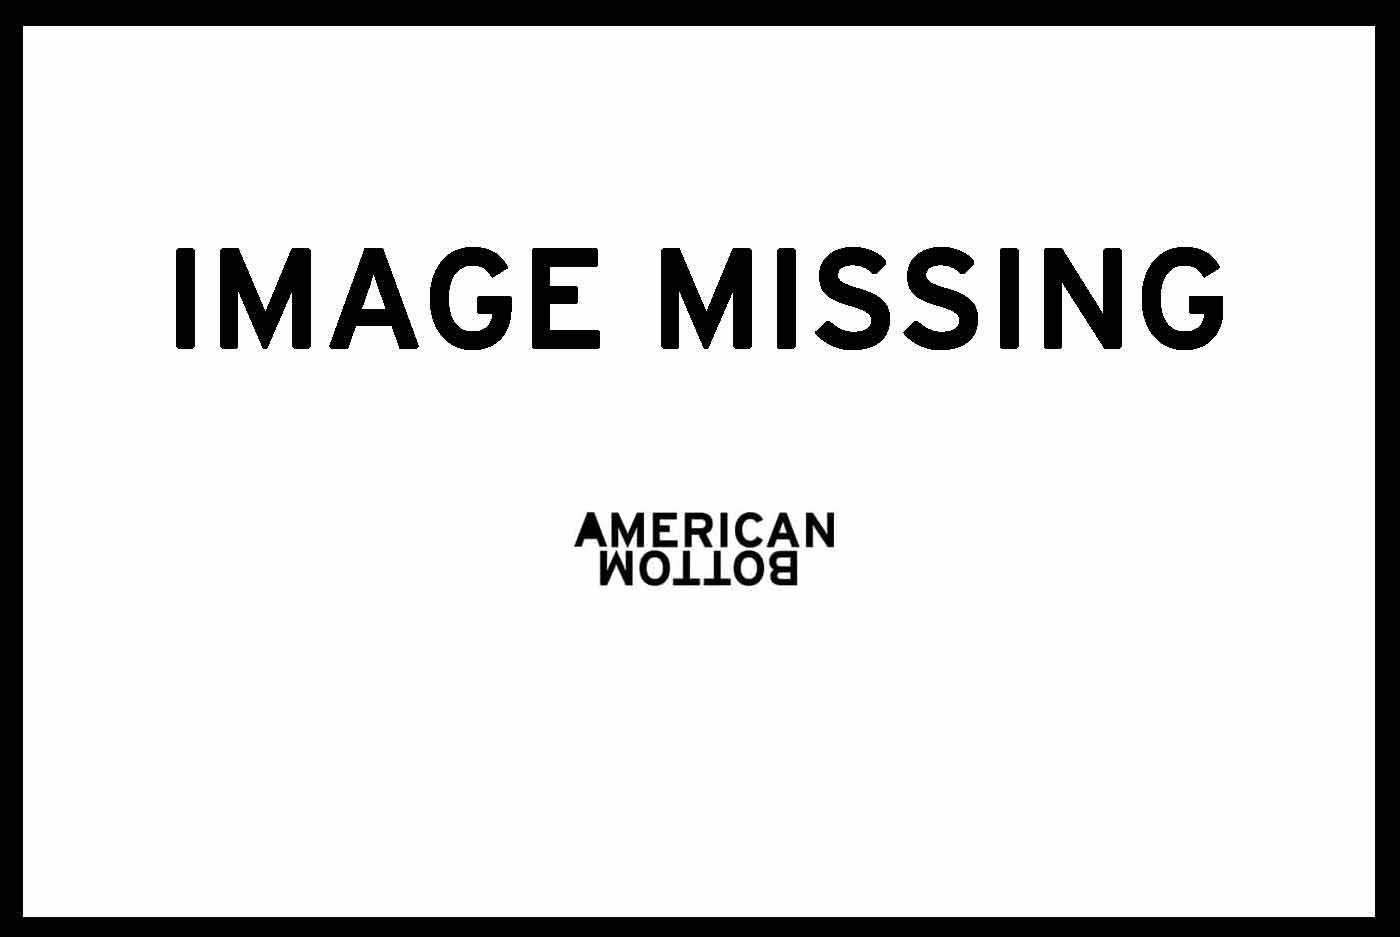
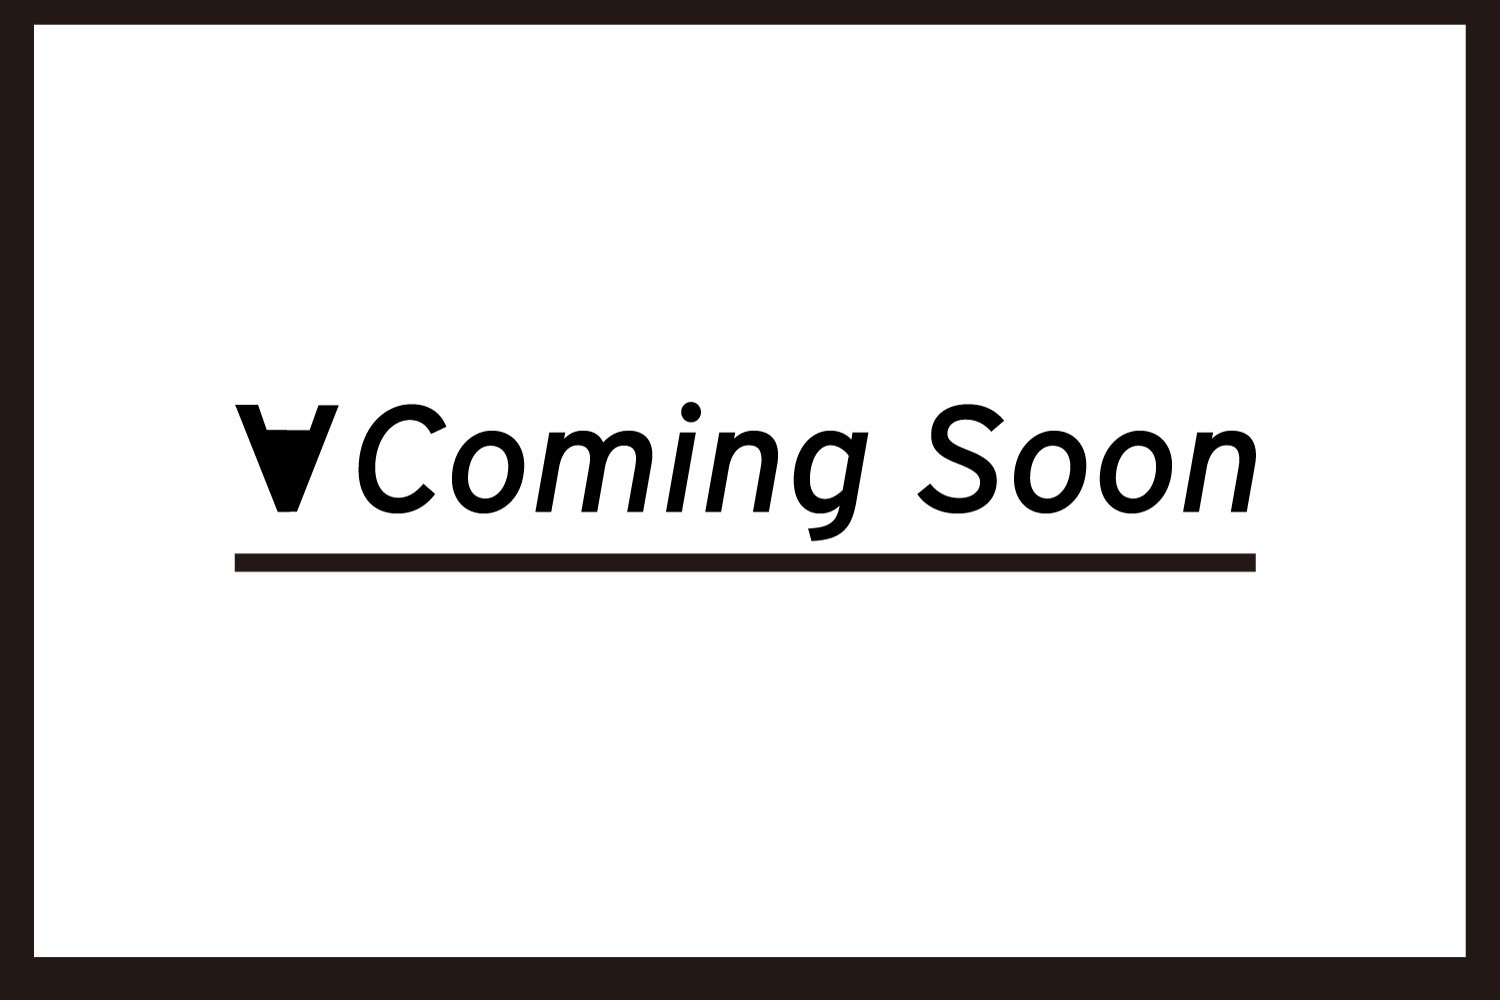
added coming soon page

diff --git a/archive.html b/archive.html
@@ -68,16 +68,16 @@
 			</div>
 
 			<div class='sitesGrid' id='site_alton'>
-				<a href='alton.html'><img src='images/sites/0imageIsFoundHere.jpg'></a>
+				<a href='0pageIsFoundHere.html'><img src='images/sites/0imageIsFoundHere.jpg'></a>
 				<div class='archiveSitetitle' id='title_alton'>
-					<a href='alton.html'><h4>Alton</h4></a>
+					<a href='0pageIsFoundHere.html'><h4>Alton</h4></a>
 				</div>
 			</div>
 
 			<div class='sitesGrid' id='site_baseline'>
-				<a href='baseline.html'><img src='images/sites/0imageIsFoundHere.jpg'></a>
+				<a href='0pageIsFoundHere.html'><img src='images/sites/0imageIsFoundHere.jpg'></a>
 				<div class='archiveSitetitle' id='title_baseline'>
-					<a href='baseline.html'><h4>Baseline</h4></a>
+					<a href='0pageIsFoundHere.html'><h4>Baseline</h4></a>
 				</div>
 			</div>
 
@@ -138,9 +138,9 @@
 			</div>
 
 			<div class='sitesGrid' id='site_cahokiaVillage'>
-				<a href='cahokiaVillage.html'><img src='images/sites/0imageIsFoundHere.jpg'></a>
+				<a href='0pageIsFoundHere.html'><img src='images/sites/0imageIsFoundHere.jpg'></a>
 				<div class='archiveSitetitle' id='title_cahokiaVillage'>
-					<a href='cahokiaVillage.html'><h4>Cahokia Village</h4></a>
+					<a href='0pageIsFoundHere.html'><h4>Cahokia Village</h4></a>
 				</div>
 			</div>
 
@@ -166,16 +166,16 @@
 			</div>
 
 			<div class='sitesGrid' id='site_chalfin'>
-				<a href='chalfin.html'><img src='images/sites/0imageIsFoundHere.jpg'></a>
+				<a href='0pageIsFoundHere.html'><img src='images/sites/0imageIsFoundHere.jpg'></a>
 				<div class='archiveSitetitle' id='title_chalfin'>
-					<a href='chalfin.html'><h4>Chalfin</h4></a>
+					<a href='0pageIsFoundHere.html'><h4>Chalfin</h4></a>
 				</div>
 			</div>
 
 			<div class='sitesGrid' id='site_channel'>
-				<a href='channel.html'><img src='images/sites/0imageIsFoundHere.jpg'></a>
+				<a href='0pageIsFoundHere.html'><img src='images/sites/0imageIsFoundHere.jpg'></a>
 				<div class='archiveSitetitle' id='title_channel'>
-					<a href='channel.html'><h4>Channel</h4></a>
+					<a href='0pageIsFoundHere.html'><h4>Channel</h4></a>
 				</div>
 			</div>
 
@@ -187,16 +187,16 @@
 			</div>
 
 			<div class='sitesGrid' id='site_cheminDuRois'>
-				<a href='cheminDuRois.html'><img src='images/sites/0imageIsFoundHere.jpg'></a>
+				<a href='0pageIsFoundHere.html'><img src='images/sites/0imageIsFoundHere.jpg'></a>
 				<div class='archiveSitetitle' id='title_cheminDuRois'>
-					<a href='cheminDuRois.html'><h4>Chemin du Rois</h4></a>
+					<a href='0pageIsFoundHere.html'><h4>Chemin du Rois</h4></a>
 				</div>
 			</div>
 
 			<div class='sitesGrid' id='site_clarksMound'>
-				<a href='clarksMound.html'><img src='images/sites/0imageIsFoundHere.jpg'></a>
+				<a href='0pageIsFoundHere.html'><img src='images/sites/0imageIsFoundHere.jpg'></a>
 				<div class='archiveSitetitle' id='title_clarksMound'>
-					<a href='clarksMound.html'><h4>Clarks Mound</h4></a>
+					<a href='0pageIsFoundHere.html'><h4>Clarks Mound</h4></a>
 				</div>
 			</div>
 
@@ -215,16 +215,16 @@
 			</div>
 
 			<div class='sitesGrid' id='site_dam27'>
-				<a href='dam27.html'><img src='images/sites/0imageIsFoundHere.jpg'></a>
+				<a href='0pageIsFoundHere.html'><img src='images/sites/0imageIsFoundHere.jpg'></a>
 				<div class='archiveSitetitle' id='title_dam27'>
-					<a href='dam27.html'><h4>Dam #27</h4></a>
+					<a href='0pageIsFoundHere.html'><h4>Dam #27</h4></a>
 				</div>
 			</div>
 
 			<div class='sitesGrid' id='site_deerPark'>
-			<a href='deerPark.html'><img src='images/sites/0imageIsFoundHere.jpg'></a>
+			<a href='0pageIsFoundHere.html'><img src='images/sites/0imageIsFoundHere.jpg'></a>
 				<div class='archiveSitetitle' id='title_deerPark'>
-					<a href='deerPark.html'><h4>Deer Park</h4></a>
+					<a href='0pageIsFoundHere.html'><h4>Deer Park</h4></a>
 				</div>
 			</div>
 			
@@ -257,9 +257,9 @@
 			</div>
 
 			<div class='sitesGrid' id='site_eaglecliffCemetery'>
-				<a href='eaglecliffCemetery.html'><img src='images/sites/0imageIsFoundHere.jpg'></a>
+				<a href='0pageIsFoundHere.html'><img src='images/sites/0imageIsFoundHere.jpg'></a>
 				<div class='archiveSitetitle' id='title_eaglecliffCemetery'>
-					<a href='eaglecliffCemetery.html'><h4>Eagle Cliff</h4></a>
+					<a href='0pageIsFoundHere.html'><h4>Eagle Cliff</h4></a>
 				</div>
 			</div>
 
@@ -285,16 +285,16 @@
 			</div>
 
 			<div class='sitesGrid' id='site_fort'>
-				<a href='fort.html'><img src='images/sites/0imageIsFoundHere.jpg'></a>
+				<a href='0pageIsFoundHere.html'><img src='images/sites/0imageIsFoundHere.jpg'></a>
 				<div class='archiveSitetitle' id='title_fort'>
-					<a href='fort.html'><h4>Fort</h4></a>
+					<a href='0pageIsFoundHere.html'><h4>Fort</h4></a>
 				</div>
 			</div>
 
 			<div class='sitesGrid' id='site_frenchVillage'>
-				<a href='frenchVillage.html'><img src='images/sites/0imageIsFoundHere.jpg'></a>
+				<a href='0pageIsFoundHere.html'><img src='images/sites/0imageIsFoundHere.jpg'></a>
 				<div class='archiveSitetitle' id='title_frenchVillage'>
-					<a href='frenchVillage.html'><h4>French Village</h4></a>
+					<a href='0pageIsFoundHere.html'><h4>French Village</h4></a>
 				</div>
 			</div>
 
@@ -313,9 +313,9 @@
 			</div>
 
 			<div class='sitesGrid' id='site_goshen'>
-				<a href='goshen.html'><img src='images/sites/0imageIsFoundHere.jpg'></a>
+				<a href='0pageIsFoundHere.html'><img src='images/sites/0imageIsFoundHere.jpg'></a>
 				<div class='archiveSitetitle' id='title_goshen'>
-					<a href='goshen.html'><h4>Goshen</h4></a>
+					<a href='0pageIsFoundHere.html'><h4>Goshen</h4></a>
 				</div>
 			</div>
 
@@ -327,9 +327,9 @@
 			</div>
 
 			<div class='sitesGrid' id='site_granite'>
-				<a href='granite.html'><img src='images/sites/0imageIsFoundHere.jpg'></a>
+				<a href='0pageIsFoundHere.html'><img src='images/sites/0imageIsFoundHere.jpg'></a>
 				<div class='archiveSitetitle' id='title_granite'>
-					<a href='granite.html'><h4>Granite</h4></a>
+					<a href='0pageIsFoundHere.html'><h4>Granite</h4></a>
 				</div>
 			</div>
 
@@ -355,9 +355,9 @@
 			</div>
 
 			<div class='sitesGrid' id='site_humpYards'>
-				<a href='humpYards.html'><img src='images/sites/0imageIsFoundHere.jpg'></a>
+				<a href='0pageIsFoundHere.html'><img src='images/sites/0imageIsFoundHere.jpg'></a>
 				<div class='archiveSitetitle' id='title_humpYards'>
-					<a href='humpYards.html'><h4>Hump Yards</h4></a>
+					<a href='0pageIsFoundHere.html'><h4>Hump Yards</h4></a>
 				</div>
 			</div>
 
@@ -369,9 +369,9 @@
 			</div>
 
 			<div class='sitesGrid' id='site_kerr'>
-				<a href='kerr.html'><img src='images/sites/0imageIsFoundHere.jpg'></a>
+				<a href='0pageIsFoundHere.html'><img src='images/sites/0imageIsFoundHere.jpg'></a>
 				<div class='archiveSitetitle' id='title_kerr'>
-					<a href='kerr.html'><h4>Kerr</h4></a>
+					<a href='0pageIsFoundHere.html'><h4>Kerr</h4></a>
 				</div>
 			</div>
 
@@ -383,9 +383,9 @@
 			</div>
 
 			<div class='sitesGrid' id='site_lacledeSteel'>
-				<a href='lacledeSteel.html'><img src='images/sites/0imageIsFoundHere.jpg'></a>
+				<a href='0pageIsFoundHere.html'><img src='images/sites/0imageIsFoundHere.jpg'></a>
 				<div class='archiveSitetitle' id='title_lacledeSteel'>
-					<a href='lacledeSteel.html'><h4>Laclede Steel</h4></a>
+					<a href='0pageIsFoundHere.html'><h4>Laclede Steel</h4></a>
 				</div>
 			</div>
 
@@ -446,16 +446,16 @@
 			</div>
 
 			<div class='sitesGrid' id='site_mitchell'>
-			<a href='mitchell.html'><img src='images/sites/0imageIsFoundHere.jpg'></a>
+			<a href='0pageIsFoundHere.html'><img src='images/sites/0imageIsFoundHere.jpg'></a>
 				<div class='archiveSitetitle' id='title_mitchell'>
-					<a href='mitchell.html'><h4>Mitchell</h4></a>
+					<a href='0pageIsFoundHere.html'><h4>Mitchell</h4></a>
 				</div>
 			</div>
 			
 			<div class='sitesGrid' id='site_modoc'>
-				<a href='modoc.html'><img src='images/sites/0imageIsFoundHere.jpg'></a>
+				<a href='0pageIsFoundHere.html'><img src='images/sites/0imageIsFoundHere.jpg'></a>
 				<div class='archiveSitetitle' id='title_modoc'>
-					<a href='modoc.html'><h4>Modoc</h4></a>
+					<a href='0pageIsFoundHere.html'><h4>Modoc</h4></a>
 				</div>
 			</div>
 
@@ -502,9 +502,9 @@
 			</div>
 
 			<div class='sitesGrid' id='site_poag'>
-				<a href='poag.html'><img src='images/sites/0imageIsFoundHere.jpg'></a>
+				<a href='0pageIsFoundHere.html'><img src='images/sites/0imageIsFoundHere.jpg'></a>
 				<div class='archiveSitetitle' id='title_poag'>
-					<a href='poag.html'><h4>Poag</h4></a>
+					<a href='0pageIsFoundHere.html'><h4>Poag</h4></a>
 				</div>
 			</div>
 
@@ -530,16 +530,16 @@
 			</div>
 
 			<div class='sitesGrid' id='site_prairieDuPont'>
-				<a href='prairieDuPont.html'><img src='images/sites/0imageIsFoundHere.jpg'></a>
+				<a href='0pageIsFoundHere.html'><img src='images/sites/0imageIsFoundHere.jpg'></a>
 				<div class='archiveSitetitle' id='title_prairieDuPont'>
-					<a href='prairieDuPont.html'><h4>Prairie du Pont</h4></a>
+					<a href='0pageIsFoundHere.html'><h4>Prairie du Pont</h4></a>
 				</div>
 			</div>
 
 			<div class='sitesGrid' id='site_prairieDuRocher'>
-				<a href='prairieDuRocher.html'><img src='images/sites/0imageIsFoundHere.jpg'></a>
+				<a href='0pageIsFoundHere.html'><img src='images/sites/0imageIsFoundHere.jpg'></a>
 				<div class='archiveSitetitle' id='title_prairieDuRocher'>
-					<a href='prairieDuRocher.html'><h4>Prairie du Rocher</h4></a>
+					<a href='0pageIsFoundHere.html'><h4>Prairie du Rocher</h4></a>
 				</div>
 			</div>
 
@@ -566,9 +566,9 @@
 			</div>
 			
 			<div class='sitesGrid' id='site_range'>
-				<a href='range.html'><img src='images/sites/0imageIsFoundHere.jpg'></a>
+				<a href='0pageIsFoundHere.html'><img src='images/sites/0imageIsFoundHere.jpg'></a>
 				<div class='archiveSitetitle' id='title_range'>
-					<a href='range.html'><h4>Range</h4></a>
+					<a href='0pageIsFoundHere.html'><h4>Range</h4></a>
 				</div>
 			</div>
 
@@ -594,9 +594,9 @@
 			</div>
 
 			<div class='sitesGrid' id='site_rushCity'>
-				<a href='rushCity.html'><img src='images/sites/0imageIsFoundHere.jpg'></a>
+				<a href='0pageIsFoundHere.html'><img src='images/sites/0imageIsFoundHere.jpg'></a>
 				<div class='archiveSitetitle' id='title_rushCity'>
-					<a href='rushCity.html'><h4>Rush City</h4></a>
+					<a href='0pageIsFoundHere.html'><h4>Rush City</h4></a>
 				</div>
 			</div>
 
@@ -608,9 +608,9 @@
 			</div>
 
 			<div class='sitesGrid' id='site_shoe'>
-				<a href='shoe.html'><img src='images/sites/0imageIsFoundHere.jpg'></a>
+				<a href='0pageIsFoundHere.html'><img src='images/sites/0imageIsFoundHere.jpg'></a>
 				<div class='archiveSitetitle' id='title_shoe'>
-					<a href='shoe.html'><h4>Shoe</h4></a>
+					<a href='0pageIsFoundHere.html'><h4>Shoe</h4></a>
 				</div>
 			</div>
 
@@ -650,9 +650,9 @@
 			</div>
 
 			<div class='sitesGrid' id='site_sugarloaf'>
-				<a href='sugarloaf.html'><img src='images/sites/0imageIsFoundHere.jpg'></a>
+				<a href='0pageIsFoundHere.html'><img src='images/sites/0imageIsFoundHere.jpg'></a>
 				<div class='archiveSitetitle' id='title_sugarloaf'>
-					<a href='sugarloaf.html'><h4>Sugarloaf</h4></a>
+					<a href='0pageIsFoundHere.html'><h4>Sugarloaf</h4></a>
 				</div>
 			</div>
 
@@ -664,9 +664,9 @@
 			</div>
 
 			<div class='sitesGrid' id='site_TRRA'>
-				<a href='TRRA.html'><img src='images/sites/0imageIsFoundHere.jpg'></a>
+				<a href='0pageIsFoundHere.html'><img src='images/sites/0imageIsFoundHere.jpg'></a>
 				<div class='archiveSitetitle' id='title_TRRA'>
-					<a href='TRRA.html'><h4>TRRA</h4></a>
+					<a href='0pageIsFoundHere.html'><h4>TRRA</h4></a>
 				</div>
 			</div>
 
@@ -678,9 +678,9 @@
 			</div>
 
 			<div class='sitesGrid' id='site_venice'>
-				<a href='venice.html'><img src='images/sites/0imageIsFoundHere.jpg'></a>
+				<a href='0pageIsFoundHere.html'><img src='images/sites/0imageIsFoundHere.jpg'></a>
 				<div class='archiveSitetitle' id='title_venice'>
-					<a href='venice.html'><h4>Venice</h4></a>
+					<a href='0pageIsFoundHere.html'><h4>Venice</h4></a>
 				</div>
 			</div>
 
@@ -706,16 +706,16 @@
 			</div>
 
 			<div class='sitesGrid' id='site_woodRiver'>
-				<a href='woodRiver.html'><img src='images/sites/0imageIsFoundHere.jpg'></a>
+				<a href='0pageIsFoundHere.html'><img src='images/sites/0imageIsFoundHere.jpg'></a>
 				<div class='archiveSitetitle' id='title_woodRiver'>
-					<a href='woodRiver.html'><h4>Wood River</h4></a>
+					<a href='0pageIsFoundHere.html'><h4>Wood River</h4></a>
 				</div>
 			</div>
 
 			<div class='sitesGrid' id='site_WRHSM'>
-				<a href='WRHSM.html'><img src='images/sites/0imageIsFoundHere.jpg'></a>
+				<a href='0pageIsFoundHere.html'><img src='images/sites/0imageIsFoundHere.jpg'></a>
 				<div class='archiveSitetitle' id='title_WRHSM'>
-					<a href='WRHSM.html'><h4>WRHSM</h4></a>
+					<a href='0pageIsFoundHere.html'><h4>WRHSM</h4></a>
 				</div>
 			</div>
 

diff --git a/0pageIsFoundHere.html b/0pageIsFoundHere.html
@@ -1,0 +1,63 @@
+<!DOCTYPE html>
+<html>
+<head>
+	<title>The American Bottom</title>
+	<link type= "text/css" rel="stylesheet"  href="css/style.css" />
+	<link type= "text/css" rel="stylesheet"  href="css/style_streetview.css" />
+	<meta name="viewport" content="width=device-width, initial-scale=1.0">
+	<meta http-equiv="Content-Type"content="text/html;charset=UTF-8">
+</head>
+
+<body>
+	<div class="home">
+		<div class="menuIcon">
+			<div class="menubar1">
+			</div>
+			<div class="menubar2">
+			</div>
+			<div class="menubar3">
+			</div>
+		</div>
+	</div>
+
+	<div class="homeClose">
+		<div class="menuIcon">
+			<div class="menubarClose1">
+			</div>
+			<div class="menubarClose2">
+			</div>
+		</div>
+	</div>
+
+	<div class = "menu">
+		<div class ="menuLinks">
+			<h1><a href="about.html">About</a></h1>
+			<h1><a href="index.html">Map</a></h1>
+			<h1><a href="archive.html">Archive</a></h1>
+			<h1><a href="itineraries.html">Itineraries</a></h1>
+		</div>
+	</div>
+
+	<div class="close">
+		<div class="bar1">
+		</div>
+		<div class="bar2">
+		</div>
+	</div>
+
+	<div id="bgContainer">
+		<div id = "titleImage">
+			<img src="images/sites/0imageIsFoundHere1.jpg" >
+		</div>
+	</div>
+
+	<div class="site_Title">
+		<h2>Coming Soon</h2>
+	</div>
+
+</div>
+<script type="text/javascript" src="js/jquery-1.11.3.min.js"></script>
+<script type="text/javascript" src="js/streetviewToggle.js"></script>
+<script src="https://maps.googleapis.com/maps/api/js"></script>
+</body>
+</html>
